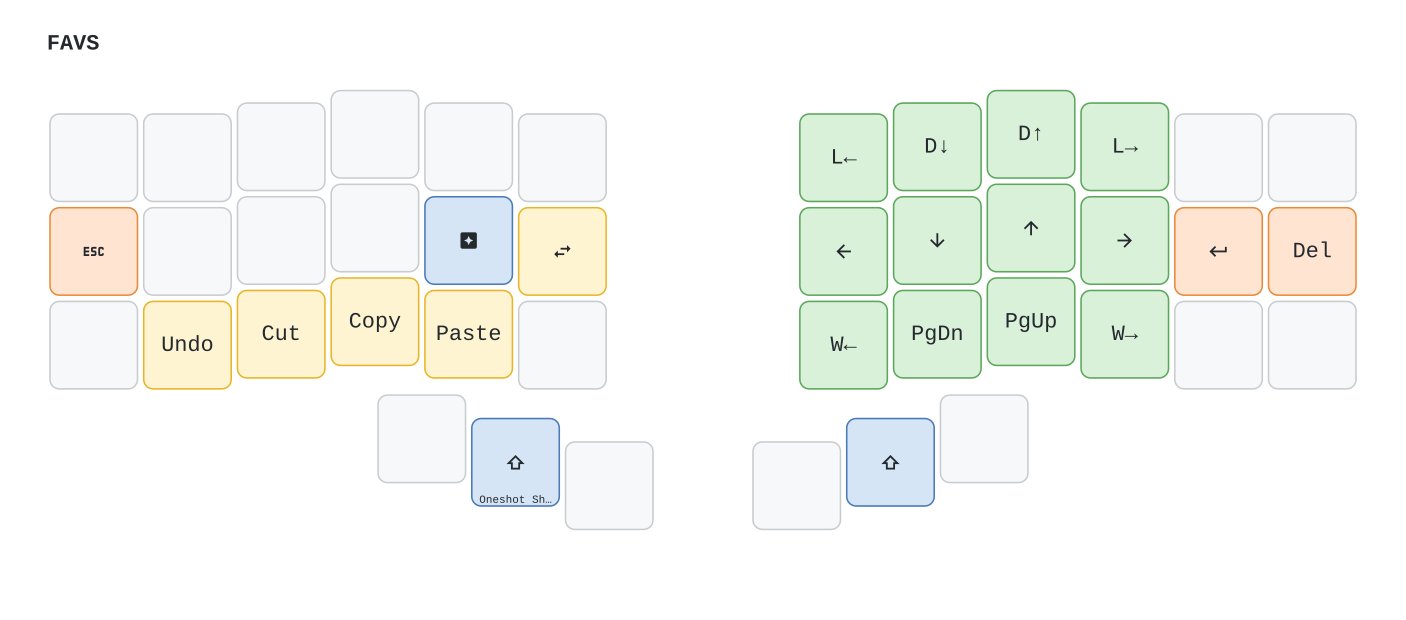
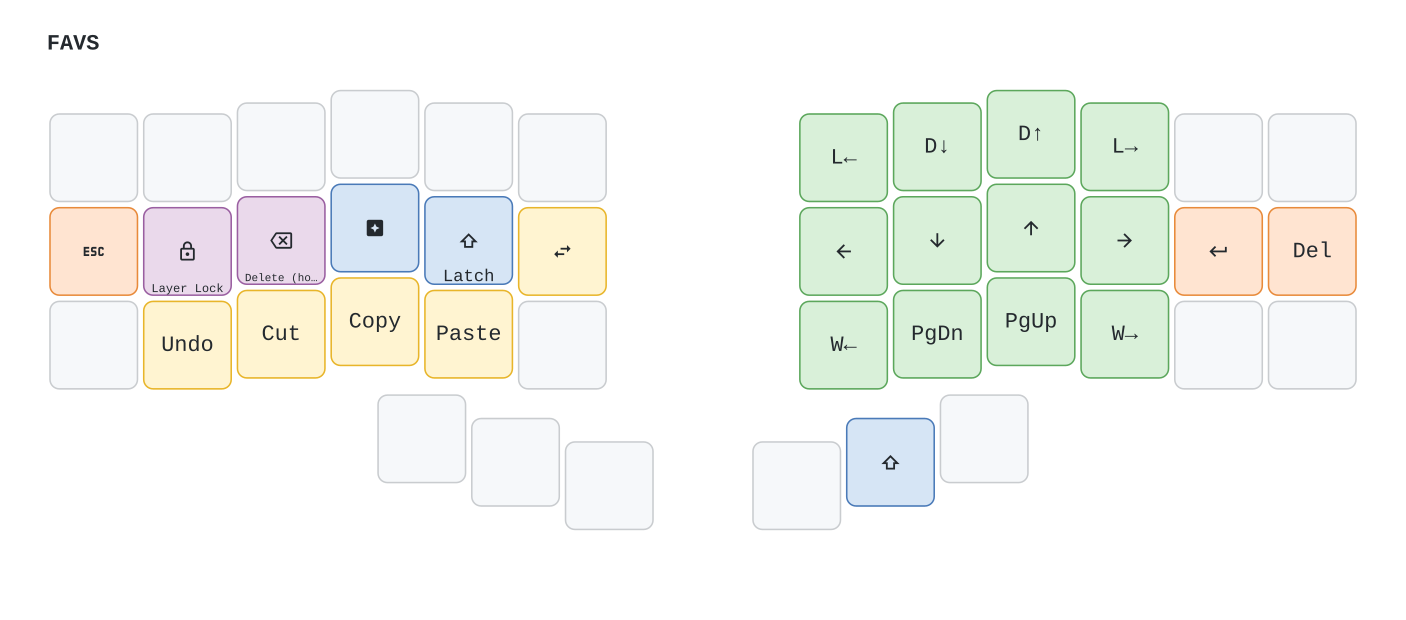
assesses a latch key feature for Select and Delete on FAVS

Changed region(s): [[0.0917, 0.2758, 0.367, 0.4903], [0.3364, 0.6742, 0.3976, 0.8274]]

diff --git a/keyboards/6x3_3/keymaps/crafted/keymap.c b/keyboards/6x3_3/keymaps/crafted/keymap.c
@@ -31,7 +31,7 @@
 // Weak corners feature
 #include "feature_weak_corners.h"
 
-// Callum-style oneshot modifiers
+// Callum-style oneshot core (no oneshot keys left; still used by mod_morph)
 #include "features/oneshot.h"
 
 // Callum-style swapper
@@ -47,7 +47,8 @@ enum layers {
     BASE = 0,
     BASE_ALT,
     FAVS,
-    SYMBOLS
+    SYMBOLS,
+    NAV_DEL
 };
 
 // Include semantic keys header
@@ -189,25 +190,27 @@ const uint16_t PROGMEM keymaps[][MATRIX_ROWS][MATRIX_COLS] = {
       * ┌───┬───┬───┬───┬───┬───┐       ┌───┬───┬───┬───┬───┬───┐
       * │   │   │   │   │   │   │       │L← │D↓ │D↑ │L→ │   │   │
       * ├───┼───┼───┼───┼───┼───┤       ├───┼───┼───┼───┼───┼───┤
-      * │Esc│ ▽ │ ▽ │ ▽ │G/C│SWn│       │ ← │ ↓ │ ↑ │ → │Ent│Del│
+      * │Esc│Lck│Dl⊙│G/C│Sl⊙│SWn│       │ ← │ ↓ │ ↑ │ → │Ent│Del│
       * ├───┼───┼───┼───┼───┼───┤       ├───┼───┼───┼───┼───┼───┤
       * │   │Udo│Cut│Cpy│Pst│   │       │W← │PgD│PgU│W→ │   │   │
       * └───┴───┴───┴───┴───┴───┘       └───┴───┴───┴───┴───┴───┘
       *               ┌───┐                   ┌───┐
       *               │   ├───┐           ┌───┤   │
-      *               └───┤OSf├───┐   ┌───┤Sft├───┘
+      *               └───┤   ├───┐   ┌───┤Sft├───┘
       *                   └───┤   │   │   ├───┘
       *                       └───┘   └───┘
-      * ▽=transparent (BASE layer keys pass through)
-      * G/C=MM_GUICTRL (morphing GUI/Ctrl), SWn=Switch Window, OSf=Oneshot Shift
+      * G/C=MM_GUICTRL (morphing GUI/Ctrl), SWn=Switch Window
+      * Lck=Layer Lock (keep FAVS without holding the thumb)
+      * Sl⊙=Select latch: tap to hold Shift until FAVS is released (or tap again/Esc)
+      * Dl⊙=Delete hold: momentary NAV_DEL sub-layer (hold-only, destructive op)
       * L←=Line Begin, L→=Line End, D↑=Doc Begin, D↓=Doc End
       * W←=Word Left, W→=Word Right
       */
     [FAVS] = LAYOUT_split_3x6_3(
         KC_NO,   KC_NO,   KC_NO,   KC_NO,   KC_NO,   KC_NO,                              SK_LINEBEG, SK_DOCEND, SK_DOCBEG, SK_LINEEND, KC_NO,   KC_NO,
-        KC_ESC,  KC_TRNS, KC_TRNS, KC_TRNS, MM_GUICTRL, SW_WIN,                          KC_LEFT, KC_DOWN, KC_UP,   KC_RGHT, KC_ENT,  KC_DEL,
+        KC_ESC,  QK_LLCK, MO(NAV_DEL), MM_GUICTRL, SEL_LATCH, SW_WIN,                    KC_LEFT, KC_DOWN, KC_UP,   KC_RGHT, KC_ENT,  KC_DEL,
         KC_NO,   SK_UNDO, SK_CUT,  SK_COPY, SK_PSTE, KC_NO,                              SK_WORDPRV, KC_PGDN, KC_PGUP, SK_WORDNXT, KC_NO,   KC_NO,
-                                            KC_NO,   OS_SHFT, KC_NO,                  KC_NO,   KC_LSFT, KC_NO
+                                            KC_NO,   KC_NO,   KC_NO,                  KC_NO,   KC_LSFT, KC_NO
     ),
      /*
       * Layer 3 - Symbols
@@ -232,6 +235,26 @@ const uint16_t PROGMEM keymaps[][MATRIX_ROWS][MATRIX_COLS] = {
         TO(BASE),  SL_1,     SL_2,     SL_3,     SL_4,    SL_5,                               SL_6,    SL_7,    KC_8,  SL_9,     SL_0,     KC_BSPC,
         KC_NO,     KC_NO,    SL_BSLS,  SL_LPRN,  SL_LBRC, KC_NO,                              KC_NO,   SL_RBRC, SL_RPRN,  SL_SCLN,  SL_TILD,  KC_NO,
                                                   KC_NO,   KC_LSFT, KC_NO,                  KC_NO,   KC_NO,   KC_NO
+    ),
+     /*
+      * NAV_DEL Layer (Layer 4) - Deletion sub-layer, active only while Dl⊙ is held on FAVS
+      * Vim-like operator grammar: row = granularity, each deletion sits on the motion it consumes
+      * ┌───┬───┬───┬───┬───┬───┐       ┌───┬───┬───┬───┬───┬───┐
+      * │   │   │   │   │   │   │       │DlB│ ▽ │ ▽ │DlE│   │   │  line: delete to begin/end
+      * ├───┼───┼───┼───┼───┼───┤       ├───┼───┼───┼───┼───┼───┤
+      * │ ▽ │ ✗ │(▽)│ ✗ │ ✗ │ ▽ │       │Bsp│ ▽ │ ▽ │Del│ ▽ │ ▽ │  char: backspace/delete
+      * ├───┼───┼───┼───┼───┼───┤       ├───┼───┼───┼───┼───┼───┤
+      * │   │ ▽ │ ▽ │ ▽ │ ▽ │   │       │DlW│ ▽ │ ▽ │Dl→│   │   │  word: delete back/forward
+      * └───┴───┴───┴───┴───┴───┘       └───┴───┴───┴───┴───┴───┘
+      * ▽=transparent (FAVS motions/clipboard stay live: navigate and Undo without releasing)
+      * ✗=blocked: Lck (would lock delete mode), G/C, Sl⊙ (delete wins over select)
+      * (▽)=Dl⊙ itself (the held MO key)
+      */
+    [NAV_DEL] = LAYOUT_split_3x6_3(
+        _______, _______, _______, _______, _______, _______,                            SK_DELLINEBEG, _______, _______, SK_DELLINEEND, _______, _______,
+        _______, XXXXXXX, _______, XXXXXXX, XXXXXXX, _______,                            KC_BSPC, _______, _______, KC_DEL,  _______, _______,
+        _______, _______, _______, _______, _______, _______,                            SK_DELWORDPRV, _______, _______, SK_DELWORDNXT, _______, _______,
+                                            _______, _______, _______,                  _______, _______, _______
     )
 };
 
@@ -250,14 +273,26 @@ static bool sft_spc_repeating = false;
 static uint16_t sft_spc_timer = 0;
 static uint16_t sft_spc_last_tap = 0;
 
-// Oneshot modifier states (only shift remains; Alt/Ctrl/GUI now on bottom-row mod-taps)
-oneshot_state os_shft_state = os_up_unqueued;
-
-// Oneshot modifier timers (for auto-cancel after timeout)
-static uint16_t os_shft_timer = 0;
-
 // Swapper state
 static bool sw_win_active = false;
+
+// Select latch state: real Shift, scoped to the FAVS layer
+static bool sel_latch_active = false;
+
+static void sel_latch_off(void) {
+    if (sel_latch_active) {
+        unregister_code(KC_LSFT);
+        sel_latch_active = false;
+    }
+}
+
+layer_state_t layer_state_set_user(layer_state_t state) {
+    // Latch lifecycle: released on leaving FAVS; delete hold (NAV_DEL) wins over select
+    if (!layer_state_cmp(state, FAVS) || layer_state_cmp(state, NAV_DEL)) {
+        sel_latch_off();
+    }
+    return state;
+}
 
 bool process_record_user(uint16_t keycode, keyrecord_t *record) {
     // Process dead keys FIRST (before semantic keys and oneshots)
@@ -272,9 +307,6 @@ bool process_record_user(uint16_t keycode, keyrecord_t *record) {
 
     // Update swapper
     update_swapper(&sw_win_active, KC_LGUI, KC_TAB, SW_WIN, keycode, record);
-
-    // Update oneshot shift (Alt/Ctrl/GUI now on bottom-row mod-taps with Chordal Hold)
-    update_oneshot(&os_shft_state, KC_LSFT, OS_SHFT, keycode, record, &os_shft_timer);
 
     // Update oneshot morphing modifier
     update_mod_morph_oneshot(MM_GUICTRL, keycode, record);
@@ -298,6 +330,24 @@ bool process_record_user(uint16_t keycode, keyrecord_t *record) {
     }
 
     switch (keycode) {
+        case SEL_LATCH:
+            if (record->event.pressed) {
+                if (sel_latch_active) {
+                    sel_latch_off();
+                } else {
+                    register_code(KC_LSFT);
+                    sel_latch_active = true;
+                }
+            }
+            return false;
+
+        case KC_ESC:
+            // Esc bails out of an active selection latch (mirrors oneshot cancel)
+            if (record->event.pressed) {
+                sel_latch_off();
+            }
+            break;
+
         case SFT_LEAD:
             if (record->event.pressed) {
                 sft_lead_timer = timer_read();
@@ -375,7 +425,6 @@ bool is_oneshot_cancel_key(uint16_t keycode) {
 // Define keys that should be ignored by oneshot logic (allows stacking modifiers)
 bool is_oneshot_ignored_key(uint16_t keycode) {
     switch (keycode) {
-        case OS_SHFT:
         case MM_GUICTRL:
         case KC_LSFT:
         case KC_RSFT:
@@ -387,6 +436,8 @@ bool is_oneshot_ignored_key(uint16_t keycode) {
         case KC_RGUI:
         case MO(FAVS):
         case MO(SYMBOLS):
+        case MO(NAV_DEL):
+        case SEL_LATCH:
         case QK_LAYER_LOCK:
         case TO(BASE):
             return true;
@@ -398,7 +449,7 @@ bool is_oneshot_ignored_key(uint16_t keycode) {
 // Define keys that should be ignored by swapper (allows changing direction)
 bool is_swapper_ignored_key(uint16_t keycode) {
     switch (keycode) {
-        case OS_SHFT:
+        case SEL_LATCH:
         case KC_LSFT:
         case KC_RSFT:
             return true;
@@ -454,7 +505,6 @@ void process_combo_event(uint16_t combo_index, bool pressed) {
 
 #if ONESHOT_MOD_TIMEOUT > 0
 void matrix_scan_user(void) {
-    check_oneshot_timeout(&os_shft_state, KC_LSFT, &os_shft_timer);
     check_mod_morph_timeout();
 }
 #endif

diff --git a/keyboards/6x3_3/keymaps/crafted/features/semantic_keys.c b/keyboards/6x3_3/keymaps/crafted/features/semantic_keys.c
@@ -55,6 +55,13 @@ static const semkey_map_t semkey_table[SK_count] = {
     [SK_ndx(SK_LINEBEG)] = {{G(KC_LEFT), KC_NO},          {KC_HOME, KC_NO}},         // Go to beginning of line
     [SK_ndx(SK_LINEEND)] = {{G(KC_RIGHT), KC_NO},         {KC_END, KC_NO}},          // Go to end of line
 
+    // Deletion keys (NAV_DEL sub-layer)
+    // Line deletions are GUI-tuned; shells use their own bindings (Ctrl-U / Ctrl-K)
+    [SK_ndx(SK_DELWORDPRV)] = {{LALT(KC_BSPC), KC_NO},    {C(KC_BSPC), KC_NO}},          // Delete word backward
+    [SK_ndx(SK_DELWORDNXT)] = {{LALT(KC_DEL), KC_NO},     {C(KC_DEL), KC_NO}},           // Delete word forward
+    [SK_ndx(SK_DELLINEBEG)] = {{G(KC_BSPC), KC_NO},       {S(KC_HOME), KC_BSPC, KC_NO}}, // Delete to line beginning
+    [SK_ndx(SK_DELLINEEND)] = {{C(KC_K), KC_NO},          {S(KC_END), KC_BSPC, KC_NO}},  // Delete to line end
+
     // Add Warpd later...
 
     // [SK_ndx(SK_HISTPRV)] = {{G(KC_LBRC), KC_NO},          {LALT(KC_LEFT), KC_NO}},   // BROWSER BACK

diff --git a/keyboards/6x3_3/keymaps/crafted/features/semantic_keys.h b/keyboards/6x3_3/keymaps/crafted/features/semantic_keys.h
@@ -37,7 +37,11 @@
         SK_DOCBEG, \
         SK_DOCEND, \
         SK_LINEBEG, \
-        SK_LINEEND \
+        SK_LINEEND, \
+        SK_DELWORDPRV, \
+        SK_DELWORDNXT, \
+        SK_DELLINEBEG, \
+        SK_DELLINEEND \
     )
 
 // Process semantic keys - call from process_record_user()

diff --git a/keyboards/6x3_3/keymaps/crafted/custom_keycodes.h b/keyboards/6x3_3/keymaps/crafted/custom_keycodes.h
@@ -28,12 +28,9 @@
 enum custom_keycodes {
     SFT_LEAD = SAFE_RANGE,  // Shift on hold, Leader on tap
     SFT_SPC,                 // Shift on hold, Space on tap
-    OS_SHFT,                 // Oneshot shift
-    OS_CTRL,                 // Oneshot control
-    OS_ALT,                  // Oneshot alt
-    OS_GUI,                  // Oneshot GUI
     SW_WIN,                  // Switch window (cmd-tab)
     MM_GUICTRL,              // Modifier swappable between GUI and Ctrl
+    SEL_LATCH,               // Shift latch scoped to the FAVS layer (tap to toggle)
 
     // Semantic keys (expanded from SEMANTIC_KEYS_LIST macro)
     SEMANTIC_KEYS_LIST,